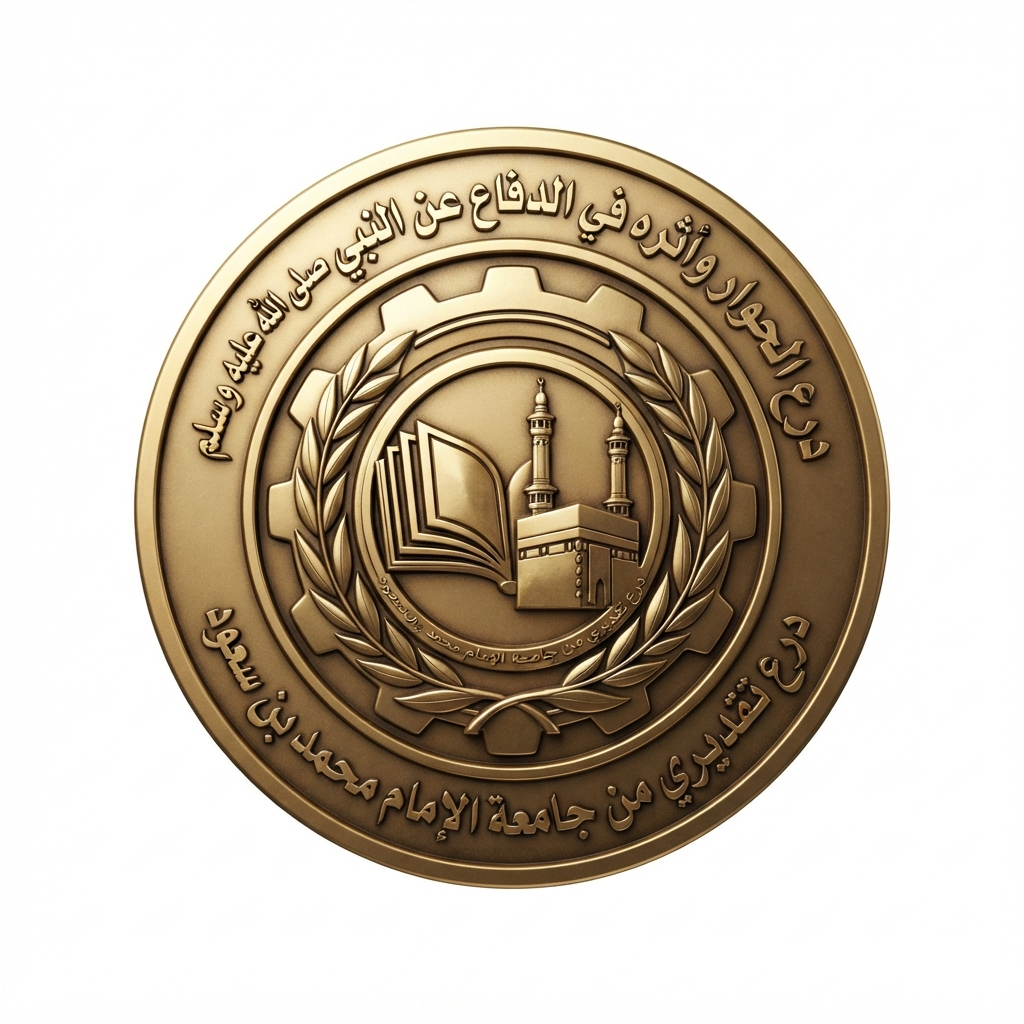
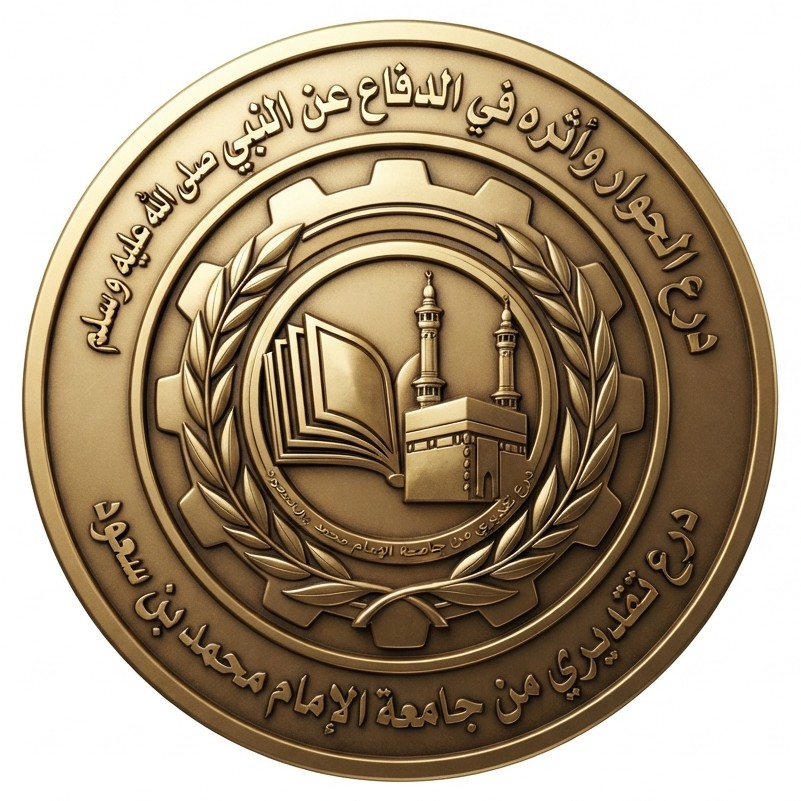
قصّ الصور برمجياً إلى حدود الوسام وإزالة الخلفية البيضاء وتقليل الزوم

diff --git a/assets/css/style.css b/assets/css/style.css
@@ -496,7 +496,7 @@ html[lang="en"] .font-arabic { font-family: var(--font-body-lat); }
   object-fit: cover;
   display: block;
   transform-origin: center;
-  transform: scale(1.2);
+  transform: scale(1.04);
 }
 
 .medal-img-ph {
